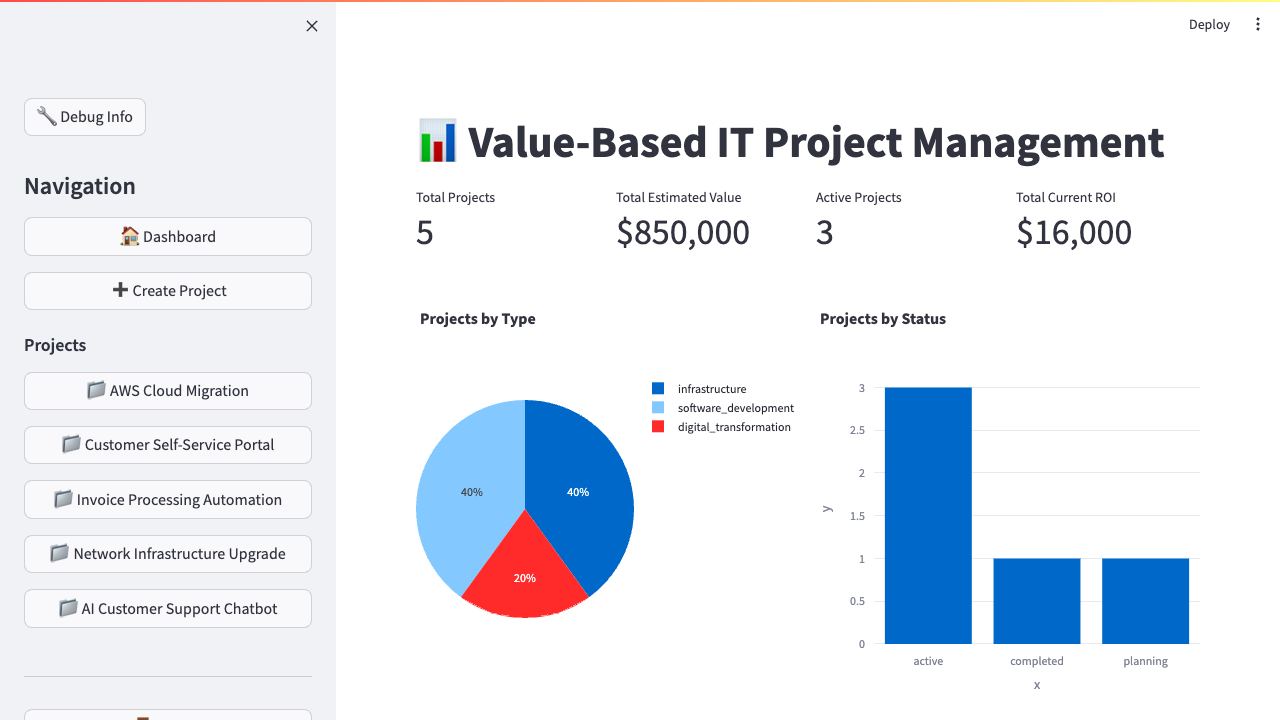
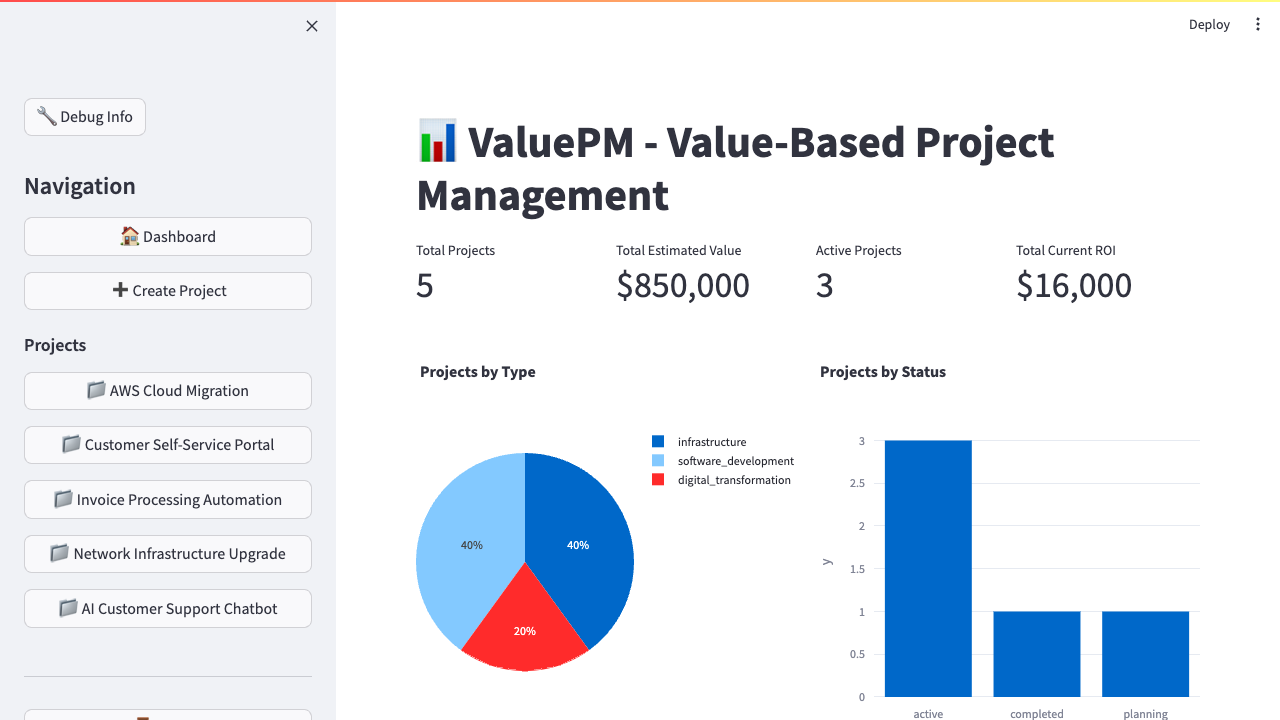
🏷 Rebrand project to ValuePM - Value-Based Project Management
- Update project name from "Value-Based IT Project Management System" to "ValuePM"
- Unify branding across all documentation (CLAUDE.md, README.md, ROADMAP.md)
- Update Streamlit UI title and page configuration
- Update FastAPI application name and startup messages
- Regenerate UI documentation with new branding
- Maintain tagline: "Value-Based Project Management System"

ValuePM provides a shorter, more memorable name while maintaining the core value proposition of value-driven project management over traditional scope/time/budget metrics.

🤖 Generated with [Claude Code](https://claude.ai/code)

diff --git a/scripts/generate_ui_docs.py b/scripts/generate_ui_docs.py
@@ -323,13 +323,13 @@ class StreamlitUIDocGenerator:
         }
         
         # Build documentation content
-        doc_content = f"""# Value-Based IT Project Management - UI Documentation
+        doc_content = f"""# ValuePM - UI Documentation
 
 *Generated automatically on {datetime.now().strftime('%Y-%m-%d %H:%M:%S')}*
 
 ## Overview
 
-This documentation provides a visual walkthrough of the Value-Based IT Project Management System's user interface.
+This documentation provides a visual walkthrough of ValuePM's user interface - a Value-Based Project Management System.
 
 """
         

diff --git a/src/ui/app.py b/src/ui/app.py
@@ -12,7 +12,7 @@ from src.core.config import settings
 
 # Configure Streamlit
 st.set_page_config(
-    page_title="Value-Based IT Project Management",
+    page_title="ValuePM - Value-Based Project Management",
     page_icon="📊",
     layout="wide",
     initial_sidebar_state="expanded"
@@ -159,7 +159,7 @@ def login_page():
 
 def dashboard_page():
     """Main dashboard page"""
-    st.title("📊 Value-Based IT Project Management")
+    st.title("📊 ValuePM - Value-Based Project Management")
     
     # Get portfolio overview
     portfolio = api.get("/projects/portfolio/overview")

diff --git a/src/core/config.py b/src/core/config.py
@@ -10,7 +10,7 @@ class Settings(BaseSettings):
     """Application settings with environment variable support"""
     
     # Application
-    APP_NAME: str = "Value-Based IT Project Management"
+    APP_NAME: str = "ValuePM - Value-Based Project Management"
     APP_VERSION: str = "1.0.0"
     DEBUG: bool = Field(default=False, env="DEBUG")
     TESTING: bool = Field(default=False, env="TESTING")

diff --git a/src/api/main.py b/src/api/main.py
@@ -13,7 +13,7 @@ from src.api.routers import projects, metrics, measurements, stakeholders, auth
 async def lifespan(app: FastAPI):
     """Handle application startup and shutdown"""
     # Startup
-    print("Starting up Value-Based PM API...")
+    print("Starting up ValuePM API...")
     init_db()
     yield
     # Shutdown

diff --git a/CLAUDE.md b/CLAUDE.md
@@ -1,8 +1,8 @@
-# Value-Based IT Project Management System
+# ValuePM - Value-Based IT Project Management System
 
 ## Project Overview
 
-This is a Python application for managing IT projects based on actual business value delivery rather than traditional scope/time/budget metrics. The system tracks, measures, and reports on the real business impact of infrastructure, software development, and digital transformation projects.
+ValuePM is a Python application for managing IT projects based on actual business value delivery rather than traditional scope/time/budget metrics. The system tracks, measures, and reports on the real business impact of infrastructure, software development, and digital transformation projects.
 
 ## Core Concept
 

diff --git a/docs/ui/README.md b/docs/ui/README.md
@@ -1,10 +1,10 @@
-# Value-Based IT Project Management - UI Documentation
+# ValuePM - UI Documentation
 
-*Generated automatically on 2025-06-11 18:23:51*
+*Generated automatically on 2025-06-11 18:30:51*
 
 ## Overview
 
-This documentation provides a visual walkthrough of the Value-Based IT Project Management System's user interface.
+This documentation provides a visual walkthrough of ValuePM's user interface - a Value-Based Project Management System.
 
 ## Login & Authentication
 

diff --git a/README.md b/README.md
@@ -1,6 +1,6 @@
-# Value-Based IT Project Management System
+# ValuePM - Value-Based Project Management System
 
-A Python application for managing IT projects based on actual business value delivery rather than traditional scope/time/budget metrics.
+ValuePM is a Python application for managing IT projects based on actual business value delivery rather than traditional scope/time/budget metrics.
 
 ## 🎯 Key Features
 

diff --git a/ROADMAP.md b/ROADMAP.md
@@ -1,4 +1,4 @@
-# Value-Based IT Project Management System - Roadmap
+# ValuePM - Roadmap
 
 ## Current Status (v1.0-alpha)
 
